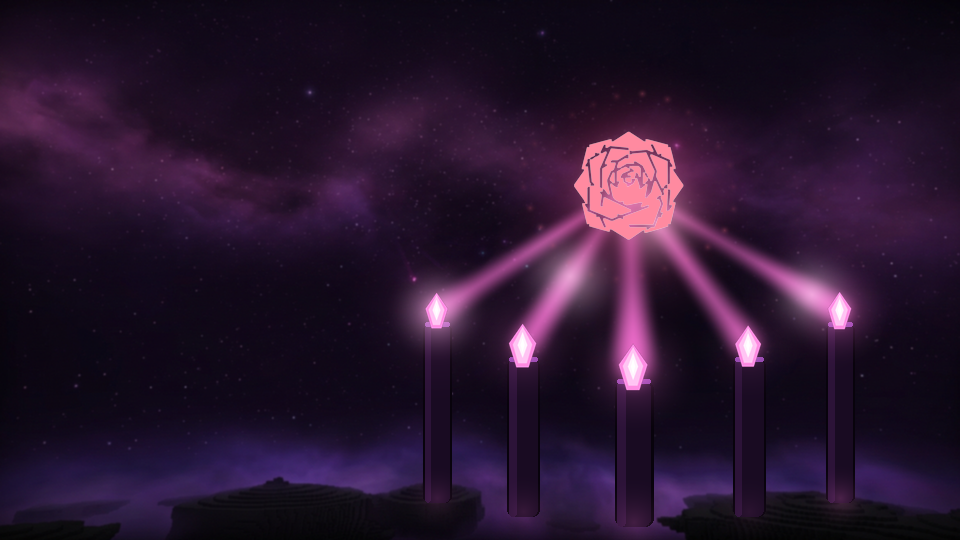
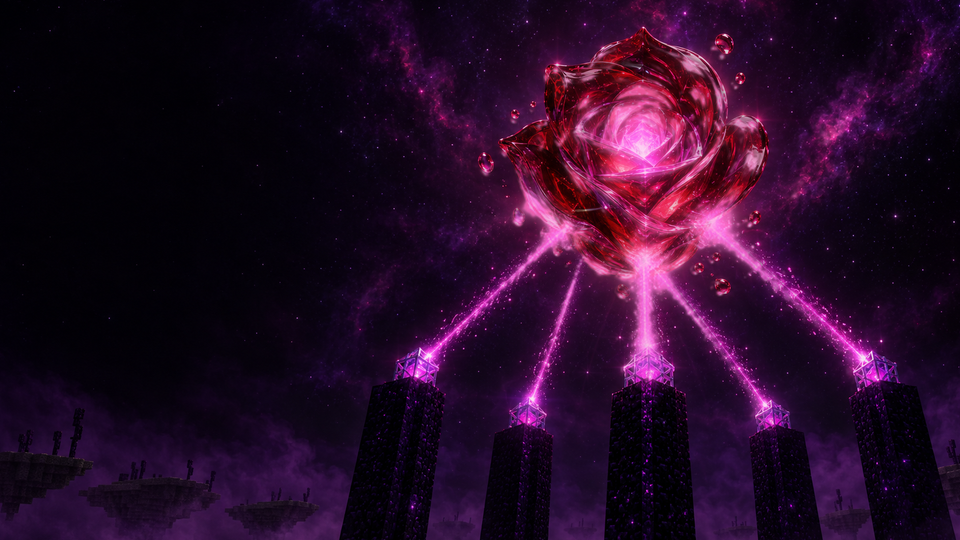
feat(menu): generated glossy ruby rose shrine backdrop with baked light-frame animation; drop procedural shrine code

diff --git a/src/main/java/sg/gui/manager/now/MainMenuScreen.java b/src/main/java/sg/gui/manager/now/MainMenuScreen.java
@@ -496,9 +496,16 @@ public class MainMenuScreen extends Screen {
         this.animation.processData(this.flag ? 1.0 : 0.0);
         float animAlt = (float) this.animation.computeDouble();
 
-        // Fullscreen main menu background: звёздный Энд, поверх — святилище кристаллов.
-        Render2D.drawTextureSmooth(BACKGROUND_DIR + "end_void.png", 0.0F, 0.0F, screenW, screenH, -1);
-        EndShrine.render(screenW, screenH, scale);
+        // Fullscreen main menu background: готовое полотно + оживающая поверх него подсветка.
+        long backdropTime = System.currentTimeMillis();
+        float backdropZoom = 1.015F + 0.012F * (float) Math.sin(backdropTime % 9000L / 9000.0 * Math.PI * 2.0);
+        float backdropShiftX = (float) Math.sin(backdropTime * 0.00021) * 6.0F * scale;
+        float backdropShiftY = (float) Math.cos(backdropTime * 0.00017) * 5.0F * scale;
+        Render2D.drawFullscreenTextureZoom(BACKGROUND_DIR + "shrine.png",
+                screenW, screenH, 1.0F, backdropZoom, backdropShiftX, backdropShiftY);
+        int lightFrame = (int) (backdropTime / 90L % 12L);
+        Render2D.drawFullscreenTextureZoom(BACKGROUND_DIR + "shrine_light_" + lightFrame + ".png",
+                screenW, screenH, 1.0F, backdropZoom, backdropShiftX, backdropShiftY);
 
         if (this.flag3) {
             float fadeWelcome = UiTheme.computeFloat2(UiTheme.computeFloat3(this.timeMillis, 100L, 600L));
@@ -515,7 +522,7 @@ public class MainMenuScreen extends Screen {
         float sidebarW = 329.5F * scale + Math.min(0.0F, sidebarX);
         if (sidebarW > 1.0F) {
             Render2D.renderElement2(drawContext, Math.max(0.0F, sidebarX), 0.0F, sidebarW, screenH);
-            UiTheme.processData6(BACKGROUND_DIR + "end_void_blur.png", screenW, screenH, 1.0F);
+            UiTheme.processData6(BACKGROUND_DIR + "shrine_blur.png", screenW, screenH, 1.0F);
             Render2D.renderElement(drawContext);
         }
 
